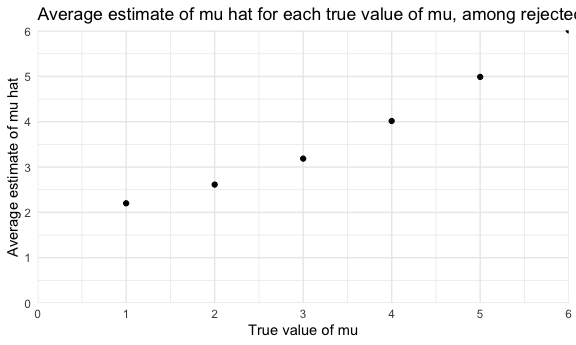
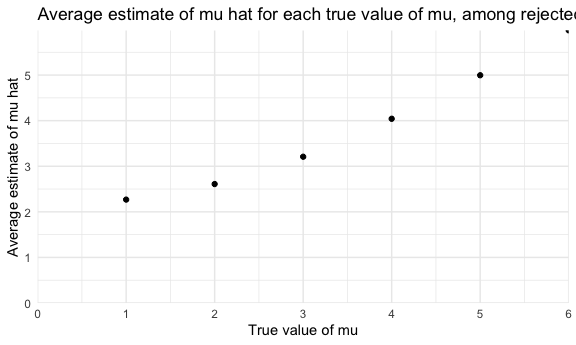
final edits!

diff --git a/p8105_hw5_mll2209.md b/p8105_hw5_mll2209.md
@@ -422,7 +422,9 @@ Spaghetti plot\!
 From the spaghetti plot, it seems that over time, on average the control
 group has lower observations when compared to the experimental group,
 since in the graph the lines corresponding to the experimental group are
-higher than the lines corresponding to the control group.
+higher than the lines corresponding to the control group. The
+observations in the experimental group also increase slightly with time,
+whereas the control group stay relatively constant.
 
 ## Problem 3
 
@@ -551,4 +553,9 @@ are appreciably different from the true mu get rejected because they
 will have a larger effect size and smaller p value. Since the averages
 among samples where the null was rejected is composed of these larger
 values, the sample average of mu across tests in this situation will be
-larger than the true value of mu as we see in the graph.
+larger than the true value of mu as we see in the graph. The is
+particularly true when true mu is equal to 1, 2, and 3, since these
+values are still close to 0 and can still fail to reject; however with
+larger values 4, 5, and 6, these values are far enough from 0 that they
+will most likely get rejected which is why the average estimate of mu
+hat for 4, 5, and 6 look about the same in both graphs.
